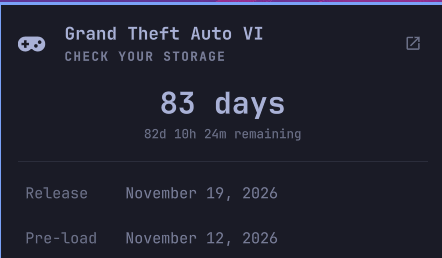
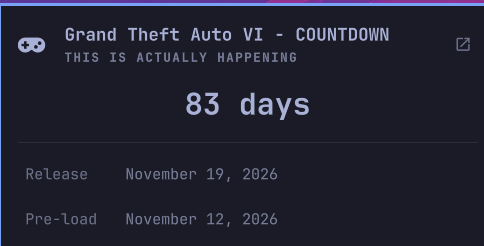
feat: show the countdown as one number until the final two days

diff --git a/Panel.qml b/Panel.qml
@@ -140,7 +140,9 @@ Ui.Panel {
     bar: root.bar
     open: root.opened
     focusTarget: keyCatcher
-    contentWidth: panel.fittedContentWidth(Style.space(360))
+    // Sized so "Grand Theft Auto VI - COUNTDOWN" clears the title's elide point
+    // with the link button already taking its share of the row.
+    contentWidth: panel.fittedContentWidth(Style.space(400))
     contentHeight: panel.fittedContentHeight(column.implicitHeight, Style.space(520))
 
     Ui.PanelKeyCatcher {
@@ -173,12 +175,11 @@ Ui.Panel {
           Ui.PanelHero {
             id: hero
             width: parent.width
-            title: "Grand Theft Auto VI"
-            // As a pill rather than appended to the title: at this panel width
-            // "Grand Theft Auto VI - Countdown" is past the title's elide point
-            // and would render as "Grand Theft Auto VI - Countd...". The pill
-            // also shrinks the title to fit rather than colliding with it.
-            detail: root.cd.released ? "" : "COUNTDOWN"
+            // The suffix goes once the date has passed and there is nothing
+            // left to count.
+            title: root.cd.released
+              ? "Grand Theft Auto VI"
+              : "Grand Theft Auto VI - COUNTDOWN"
             meta: root.heroMeta
             foreground: root.foreground
             fontFamily: root.fontFamily
@@ -238,7 +239,7 @@ Ui.Panel {
 
             Text {
               textFormat: Text.PlainText
-              visible: svc.panelFormat === "both"
+              visible: Model.showsExactLine(root.cd, svc.panelFormat)
               width: parent.width
               text: Model.formatExact(root.cd)
               color: root.dim

diff --git a/tests/model.test.js b/tests/model.test.js
@@ -244,6 +244,29 @@ check("the tooltip carries what the chip stopped showing", () => {
   assert.ok(out.indexOf("out now") >= 0)
 })
 
+check("auto holds the exact line back until the minutes matter", () => {
+  const on = d => Model.showsExactLine({ released: false, calendarDays: d }, "auto")
+  assert.strictEqual(on(83), false, "noise at eighty days out")
+  assert.strictEqual(on(7), false)
+  assert.strictEqual(on(3), false)
+  assert.strictEqual(on(2), true, "the final two days earn it")
+  assert.strictEqual(on(1), true)
+  assert.strictEqual(on(0), true)
+  assert.strictEqual(Model.showsExactLine({ released: true, daysSince: 0 }, "auto"), false,
+    "nothing to count once it is out")
+})
+
+check("the explicit panel formats override auto in both directions", () => {
+  const far = { released: false, calendarDays: 83 }
+  const near = { released: false, calendarDays: 1 }
+  assert.strictEqual(Model.showsExactLine(far, "both"), true, "both always shows it")
+  assert.strictEqual(Model.showsExactLine(near, "days"), false, "days never does")
+  assert.strictEqual(Model.showsExactLine(near, "exact"), false, "exact is the big line instead")
+  // An unknown value must behave as auto rather than blanking the panel.
+  assert.strictEqual(Model.showsExactLine(near, "nonsense"), true)
+  assert.strictEqual(Model.showsExactLine(far, "nonsense"), false)
+})
+
 check("hours and minutes are zero padded, days are not", () => {
   const cd = Model.countdown(at(2026, 11, 15, 20, 5), TARGET)
   assert.strictEqual(Model.formatBar(cd, "dhm"), "3d 03h 55m")

diff --git a/Model.js b/Model.js
@@ -293,6 +293,17 @@ function pickPhrase(cd, previous) {
   return choice
 }
 
+// Whether the panel prints the exact figure under the big number. At eighty
+// days out, precision to the minute is noise beneath a number that already
+// answers the question, and showing both invites the reader to notice they
+// disagree by one. In the last two days the minutes are the whole point, so
+// "auto" holds the line back until then. The tooltip carries it throughout.
+function showsExactLine(cd, format) {
+  if (format === "both") return true
+  if (format === "days" || format === "exact") return false
+  return !!cd && !cd.released && cd.calendarDays <= 2
+}
+
 // Milestones key on the sleeps count, so each fires on exactly one calendar
 // day. Wording avoids repeating a figure the ticking chip would contradict.
 var MILESTONES = [
@@ -413,6 +424,7 @@ if (typeof module !== "undefined") {
     formatTooltip: formatTooltip,
     formatHeadline: formatHeadline,
     formatExact: formatExact,
+    showsExactLine: showsExactLine,
     PHRASE_TIERS: PHRASE_TIERS,
     RELEASED_PHRASES: RELEASED_PHRASES,
     phrasesFor: phrasesFor,

diff --git a/Service.qml b/Service.qml
@@ -28,8 +28,8 @@ Item {
   // What the middle of the panel shows. "both" prints the sleeps count large
   // with the exact figure under it; the single-value modes drop one of them.
   readonly property string panelFormat: {
-    var format = String(setting("panelFormat", "both"))
-    return format === "days" || format === "exact" ? format : "both"
+    var format = String(setting("panelFormat", "auto"))
+    return format === "days" || format === "exact" || format === "both" ? format : "auto"
   }
   readonly property string notifyMode: {
     var mode = String(setting("notifyMode", "daily"))

diff --git a/README.md b/README.md
@@ -8,8 +8,8 @@ page, and one reminder a day. It is pure date arithmetic — no daemon, no helpe
 no network, and nothing to read from the system.
 
 <p align="center">
-  <img src="preview.png" width="442"
-       alt="The GTA VI Countdown panel open in the Omarchy bar, reading 83 days with 82d 10h 24m remaining, above the release date of November 19, 2026 and the pre-load date of November 12, 2026">
+  <img src="preview.png" width="484"
+       alt="The GTA VI Countdown panel open in the Omarchy bar, titled Grand Theft Auto VI - COUNTDOWN, reading 83 days above the release date of November 19, 2026 and the pre-load date of November 12, 2026">
 </p>
 
 ## Features
@@ -17,9 +17,9 @@ no network, and nothing to read from the system.
 - One icon on the bar, the same width as every other chip. The reading lives in
   the tooltip and the panel rather than a string that grows and shrinks and
   shoves its neighbours sideways once a minute
-- Two readings side by side: how many sleeps away it is, and the exact time
-  remaining. Above a day apart the two differ by one, and showing both makes
-  that obvious instead of looking like a bug
+- One number, until precision earns its place. `83 days` answers the question on
+  its own; the exact `01h 42m` appears beneath it only in the final two days,
+  when the minutes are the point. The exact figure is in the tooltip throughout
 - Pre-load as well as release, since pre-load opens a week ahead and is the date
   you actually have to act on
 - One reminder a day, at an hour you choose, with a milestone line at 100 days,
@@ -57,7 +57,7 @@ moves again you retarget it yourself instead of waiting for a release here.
 | --- | --- | --- |
 | `releaseDate` | `2026-11-19` | Target date, `YYYY-MM-DD`, counted to local midnight. An unparseable value falls back to the shipped date and says so in the panel. |
 | `barFormat` | `icon` | `icon` shows the glyph alone. `days` shows the sleeps count. `dhm` shows exact time remaining, and ticks every minute. |
-| `panelFormat` | `both` | `both` prints the sleeps count large with the exact figure beneath it. `days` keeps only the large count. `exact` shows only the ticking figure. |
+| `panelFormat` | `auto` | `auto` shows the sleeps count alone, adding the exact figure beneath it only in the final two days. `both` always shows both, `days` never does, `exact` shows only the ticking figure. |
 | `notifyMode` | `daily` | `daily`, `milestones` only, or `off`. |
 | `notifyHour` | `9` | Earliest hour for the daily reminder, `0`–`23`. |
 | `hideAfterDays` | `30` | Retire the widget this many days after release. `0` keeps it forever. |
@@ -125,15 +125,21 @@ omarchy-shell io.github.xgborgeso.gta6-countdown toggle
 omarchy-shell io.github.xgborgeso.gta6-countdown link
 ```
 
-## Two numbers, on purpose
+## Why the two numbers disagree
 
-The panel shows `83 days` above `82d 10h 24m remaining`, and both are correct.
+Set `panelFormat` to `both` and the panel shows `83 days` above
+`82d 10h 24m remaining`. Both are correct.
 
 `83` is how many sleeps away it is, which is what a person means by "days left".
 `82d 10h` is exact time on the clock. They differ by one for most of the day and
 agree at local midnight. Every bare number — the tooltip's neighbour, the `days`
 bar format, every notification — uses the sleeps count; only the ticking figure
 is exact.
+
+This is why `auto` is the default: at eighty days out the exact line is noise
+under a number that already answers the question, and showing both only invites
+you to notice they disagree. In the last two days the minutes are the point, so
+that is when it appears.
 
 The gap can also be more than you expect. Between August and November the clocks
 go back, so there is one more real hour of waiting than the calendar suggests,
